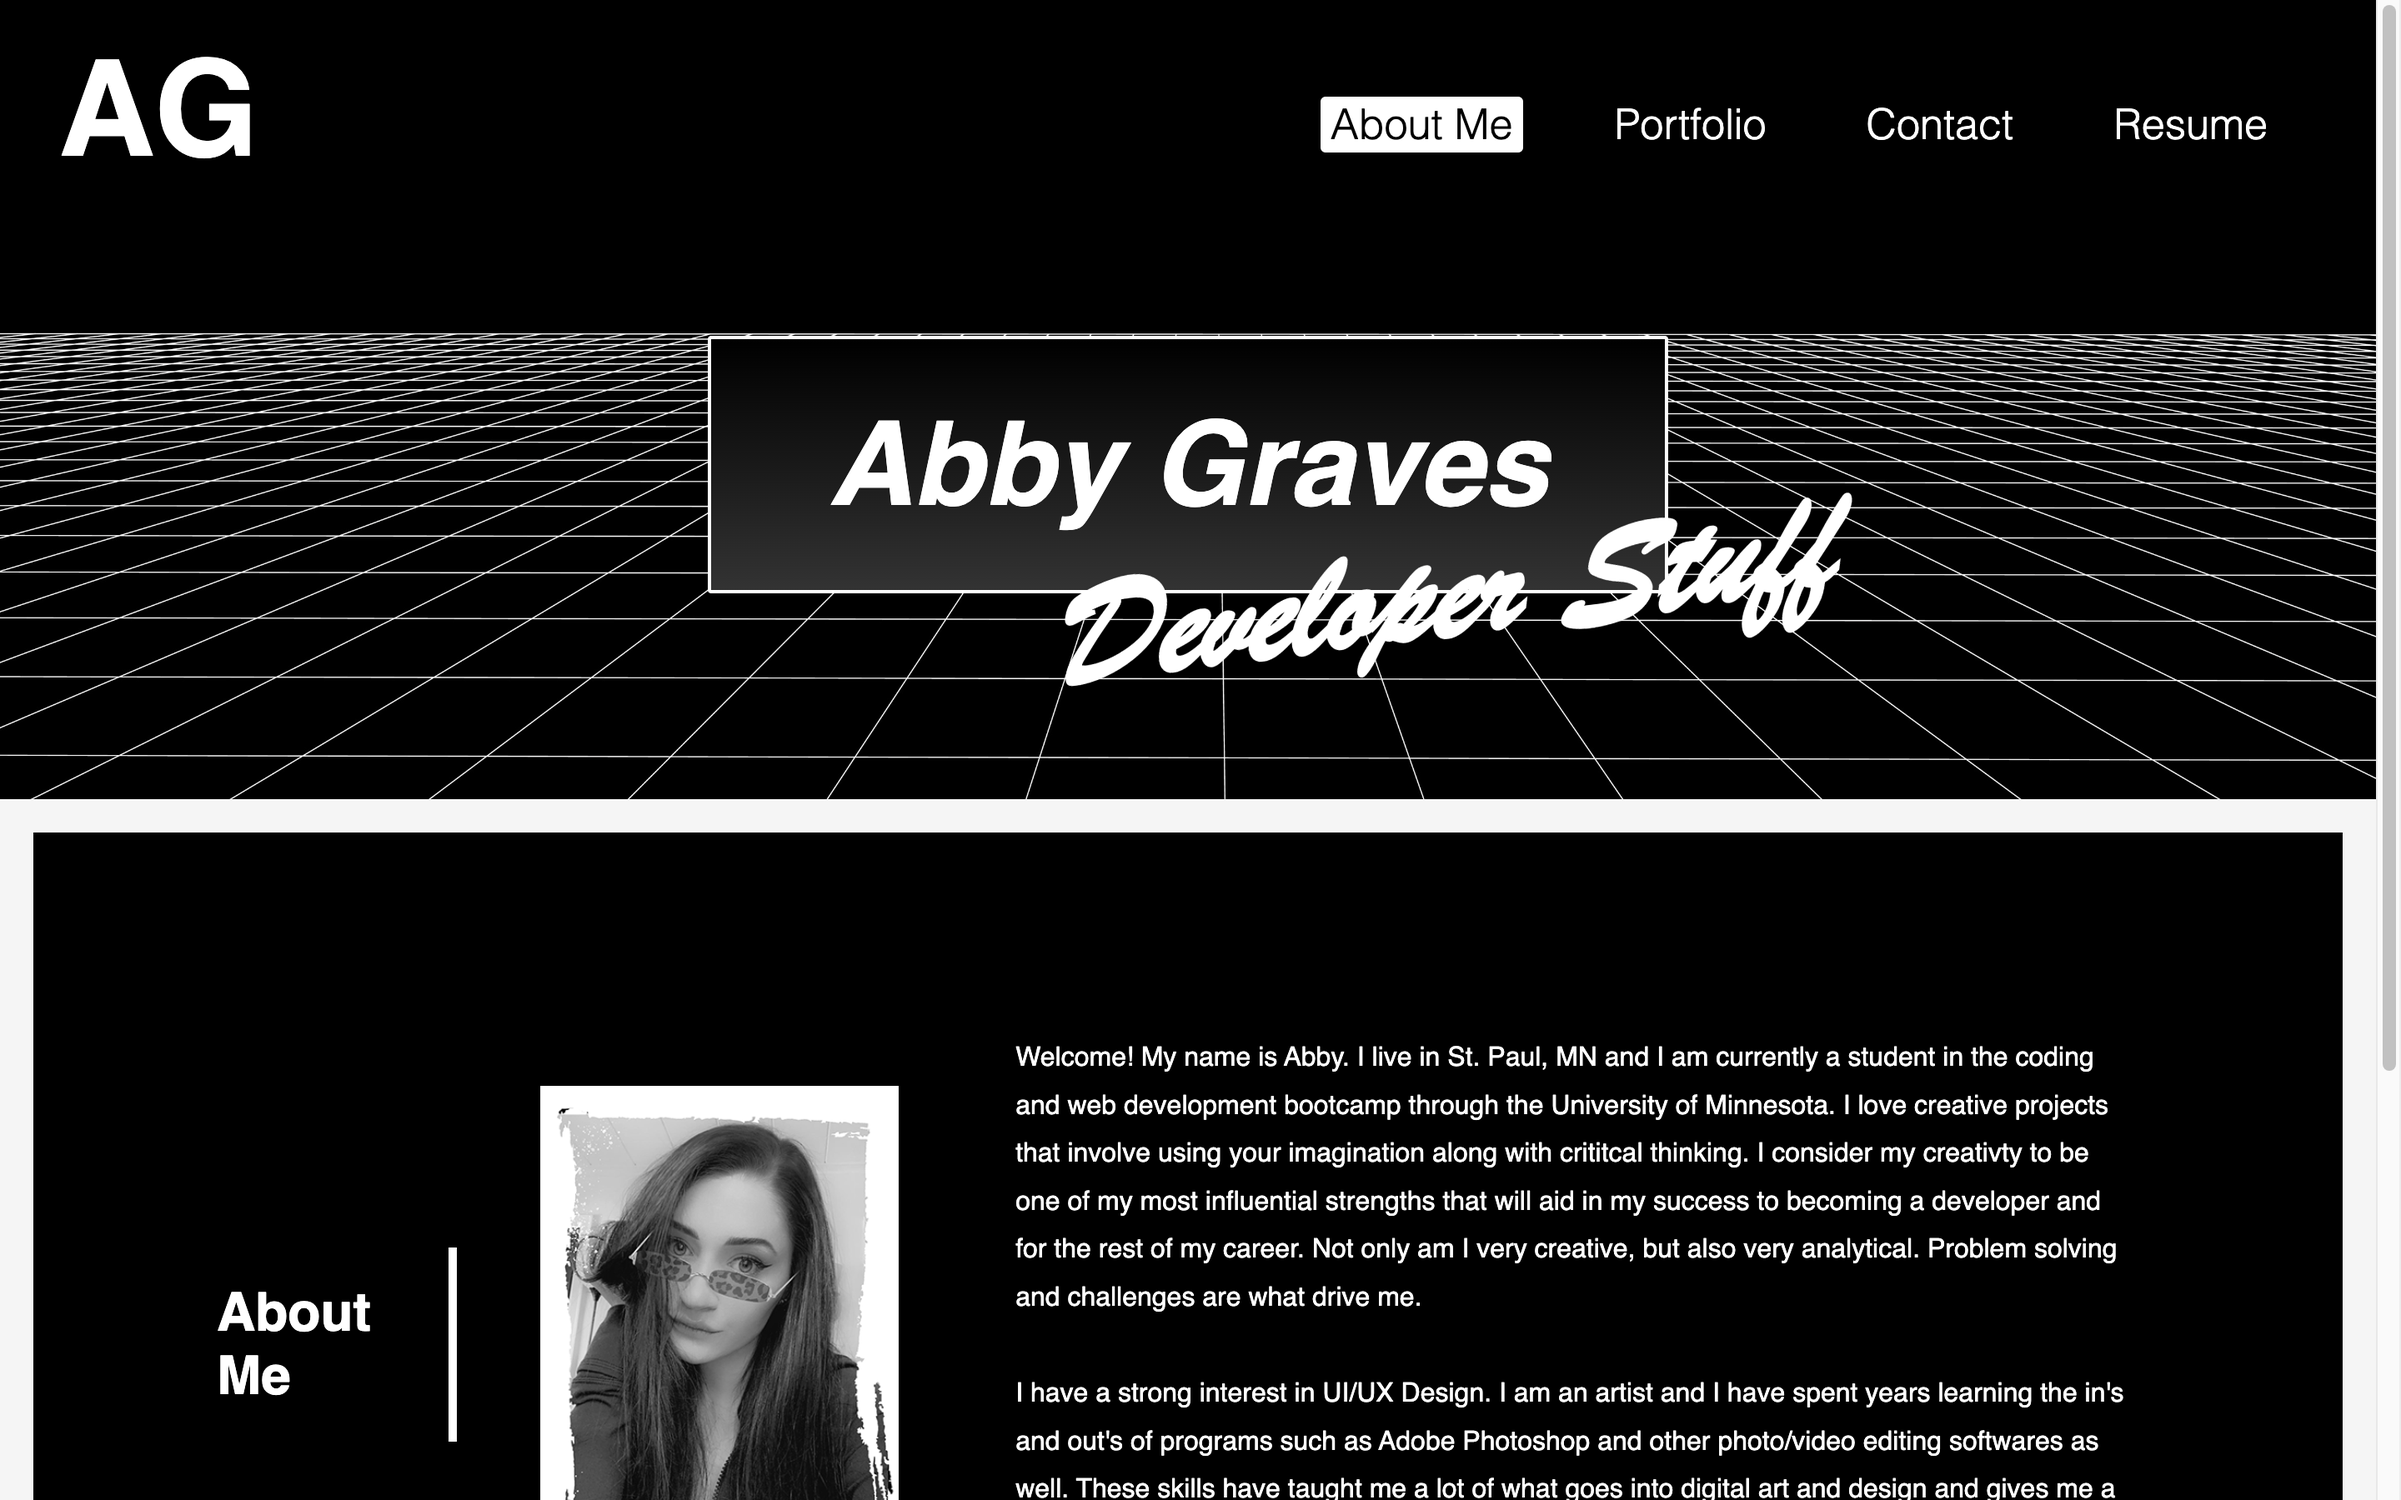
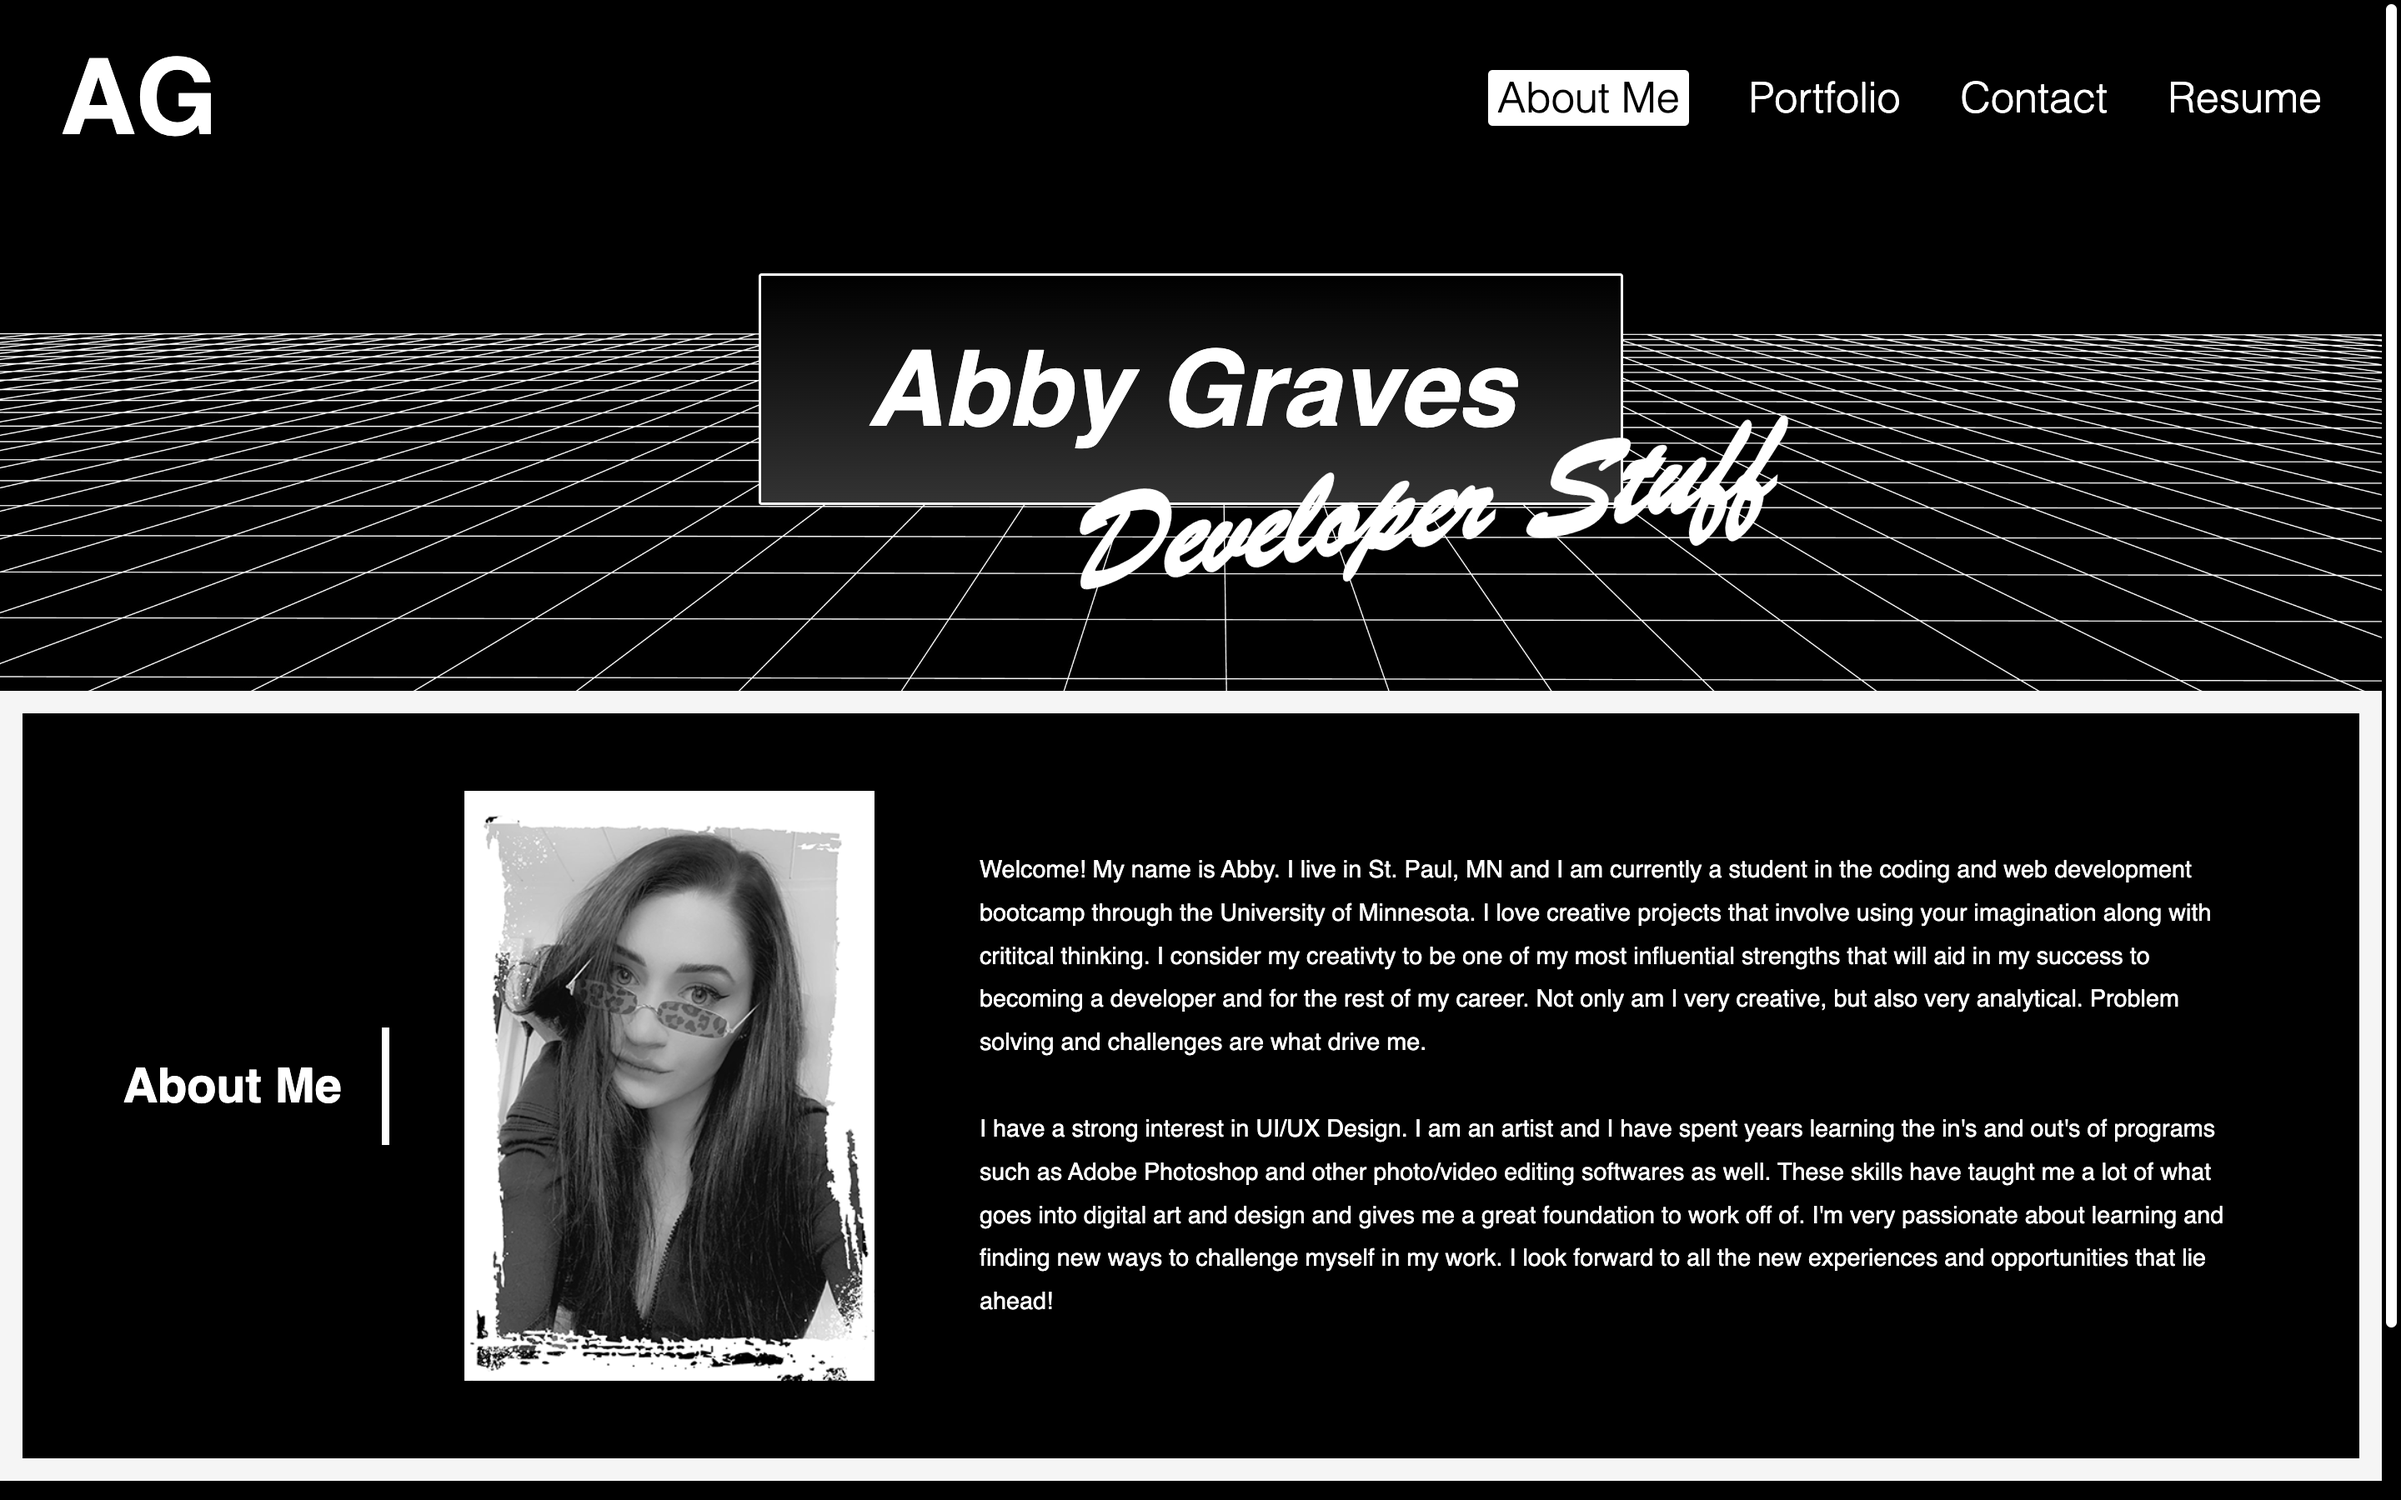
updated readme app image and added scrollbar to css

Changed region(s): [[0.0, 0.0, 1.0, 1.0], [0.0312, 0.0311, 0.125, 0.1244], [0.0938, 0.84, 0.1562, 0.9333]]

diff --git a/src/index.css b/src/index.css
@@ -16,6 +16,33 @@ body {
   font-family: Helvetica, Arial, sans-serif;
   background-color: whitesmoke;
 }
+
+/* - - - - - - - - - - - - - - - - - - - - - - - - - - - - - - - - - - - - - - -  */
+
+/* SCROLLBAR START */
+::-webkit-scrollbar {
+  width: .8em;
+  height: .8em;
+}
+
+::-webkit-scrollbar-track {
+  background: var(--primary-color);
+}
+
+::-webkit-scrollbar-thumb {
+  background: var(--secondary-color);
+  border: .2em solid var(--primary-color);
+  border-radius: 10px;
+}
+
+/* syntax to support Firefox browser*/
+@supports (scrollbar-color: white black) {
+  * {
+    scrollbar-color: white black;
+  }
+}
+/* SCROLLBAR END */
+
 /* - - - - - - - - - - - - - - - - - - - - - - - - - - - - - - - - - - - - - - -  */
 
 /* // CLEAN UP: NAV NEEDS RESPONSIVENESS FIXING */
